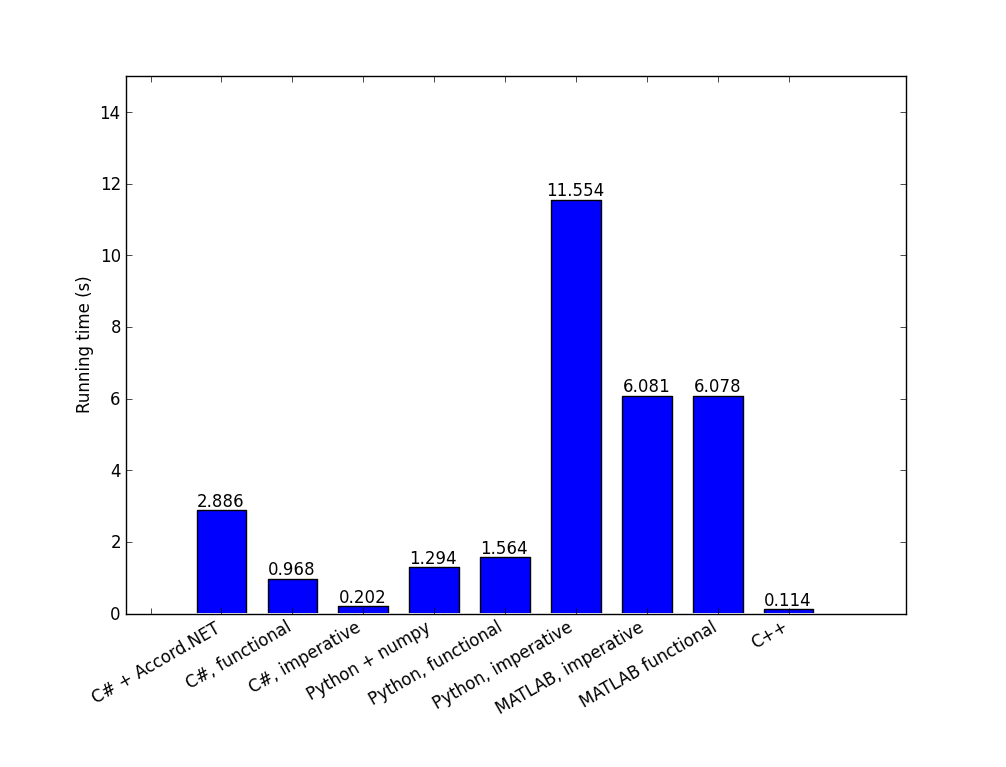
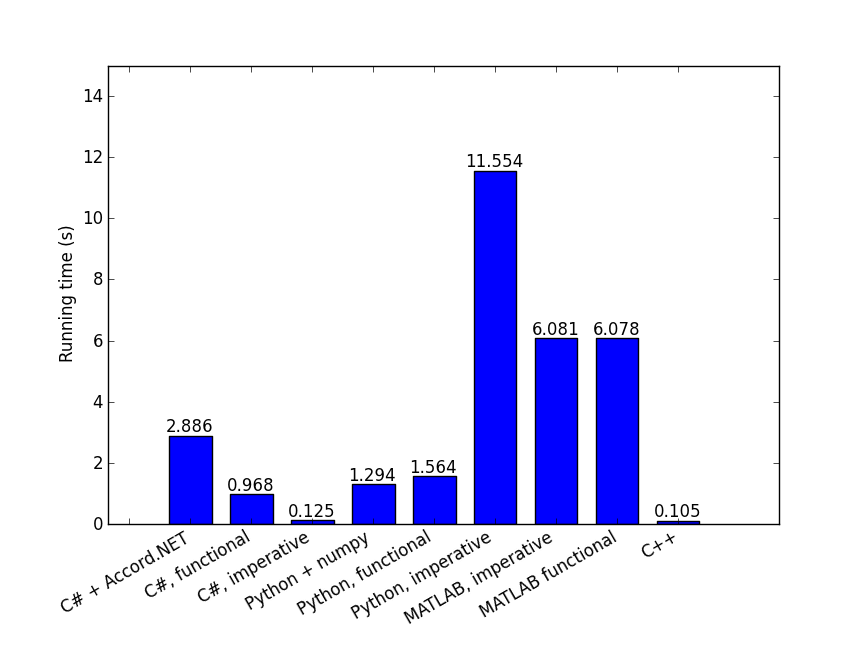
further optimize the c# and c++ code

diff --git a/SIFTMatch/Program.cs b/SIFTMatch/Program.cs
@@ -19,13 +19,13 @@ namespace SIFTMatch
             var tc0 = Environment.TickCount;
             var mLib = SIFTMatchWithLib(sift1, sift2);
             var tcLib = Environment.TickCount;
-            var mImpe = SIFTMatchImperative(sift1, sift2);
+            var mImpe = SIFTMatchImperativeUnSafe(sift1, sift2);
             var tcImpe = Environment.TickCount;
             var mFunc = SIFTMatchFunctional(sift1, sift2);
             var tcFunc = Environment.TickCount;
             var mImpeLib = SIFTMatchLibImperative(sift1, sift2);
             var tcImpeLib = Environment.TickCount;
-            var isCorrect = mLib.IsEqual(mImpe);
+            var isCorrect = mFunc.IsEqual(mImpe);
             isCorrect = isCorrect && mImpe.IsEqual(mFunc);
             isCorrect = isCorrect && mImpeLib.IsEqual(mFunc);
 
@@ -93,14 +93,70 @@ namespace SIFTMatch
             return matched.ToArray();
         }
 
+        static int[] SIFTMatchImperativeUnSafe(double[][] _sift1, double[][] _sift2)
+        {
+            var h1 = _sift1.Length;
+            var h2 = _sift2.Length;
+            var sift1 = new float[h1 * 128];
+            var sift2 = new float[h2 * 128];
+            var matched = new int[h1];
+            unsafe
+            {
+                fixed (float* s1 = &sift1[0])
+                {
+                    fixed (float* s2 = &sift2[0])
+                    {
+                        for (int i = 0; i < h1; i++)
+                        {
+                            for (int j = 0; j < 128; j++)
+                            {
+                                s1[i * 128 + j] = (float)_sift1[i][j];
+                            }
+                        }
+                        for (int i = 0; i < h2; i++)
+                        {
+                            for (int j = 0; j < 128; j++)
+                            {
+                                s2[i * 128 + j] = (float)_sift2[i][j];
+                            }
+                        }
+
+                        var minI = 0;
+                        var ss1 = s1;
+                        for (int i = 0; i < h1; i++, ss1 += 128)
+                        {
+                            var min = float.MaxValue;
+                            var index2 = 0;
+                            for (int j = 0; j < h2; j++)
+                            {
+                                var dist = 0.0f;
+                                for (int d = 0; d < 128; d++, index2++)
+                                {
+                                    var tmp = ss1[d] - s2[index2];
+                                    dist += tmp * tmp;
+                                }
+                                if (min > dist)
+                                {
+                                    min = dist;
+                                    minI = j;
+                                }
+                            }
+                            matched[i] = minI;
+                        }
+                    }
+                }
+            }
+            return matched;
+        }
+
         static int[] SIFTMatchFunctional(double[][] sift1, double[][] sift2)
-        { 
+        {
             return sift1.Select(s1 =>
                 Enumerable.Range(0, sift2.Length)
-                    .Select(i => 
+                    .Select(i =>
                     {
                         var tmp = sift2[i].Subtract(s1);
-                        return new {I = i, Dist = tmp.ElementwiseMultiply(tmp).Sum()};
+                        return new { I = i, Dist = tmp.ElementwiseMultiply(tmp).Sum() };
                     }).OrderBy(x => x.Dist)
                     .First().I).ToArray();
         }

diff --git a/CSIFTMatch/main.cpp b/CSIFTMatch/main.cpp
@@ -33,30 +33,52 @@ int main()
 	double **sift1 = InitMatrix();
 	double **sift2 = InitMatrix();
 	clock_t t = clock();
+	// transfer to float*
+	float *s1 = new float[1000 * 128];
+	float *s2 = new float[1000 * 128];
 
-	// match 
-	int matches[1000] = {0};
-	for (int i = 0; i < 1000; i++)
+	for (int ii = 0; ii < 1; ii++)
 	{
-		int minI = 0;
-		double minValue = 10000000;
-		for (int j = 0; j < 1000; j++)
+		for (int i = 0; i < 1000; i++)
 		{
-			double dist = 0.0;
-			for (int k = 0; k < 128; k++)
+			for (int j = 0; j < 128; j++)
 			{
-				double tmp = sift1[i][k] - sift2[j][k];
-				dist += tmp * tmp;
-			}
-			if (dist < minValue)
-			{
-				minValue = dist;
-				minI = j;
+				s1[i * 128 + j] = (float)sift1[i][j];
+				s2[i * 128 + j] = (float)sift2[i][j];
 			}
 		}
-		matches[i] = minI;
+
+		// match 
+		int matches[1000] = {0};
+		float *ss1 = s1;
+		for (int i = 0; i < 1000; i++, ss1 += 128)
+		{
+			int minI = 0;
+			float *ss2 = s2;
+			float minValue = 10000000;
+			for (int j = 0; j < 1000; j++)
+			{
+				float dist = 0.0;
+				for (int k = 0; k < 128; k++, ss2++)
+				{
+					float tmp = ss1[k] - *ss2;
+					dist += tmp * tmp;
+				}
+				if (dist < minValue)
+				{
+					minValue = dist;
+					minI = j;
+				}
+			}
+			matches[i] = minI;
+		}
 	}
 	cout << "Costs " << clock() - t << "ms." << endl;
-	
+
+	delete[] s1;
+	delete[] s2;
+	DestroyMatrix(sift1);
+	DestroyMatrix(sift2);
+
 	return 0;
 }

diff --git a/figs.py b/figs.py
@@ -3,7 +3,7 @@ import matplotlib.pyplot as pp
 import matplotlib as ml
 
 # For the quantitative results figure.
-acc1 = np.asarray([2886, 968, 202, 1294, 1564, 11554, 6081, 6078, 114]) / 1000.0;
+acc1 = np.asarray([2886, 968, 125, 1294, 1564, 11554, 6081, 6078, 105]) / 1000.0;
 acc1_str = [str(x) for x in acc1]
 
 def autolabel(rects, name):
